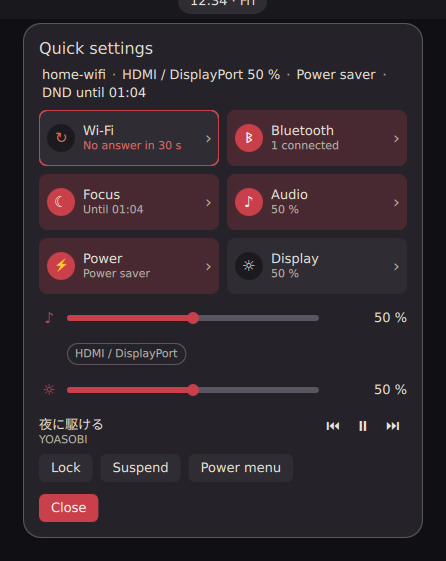
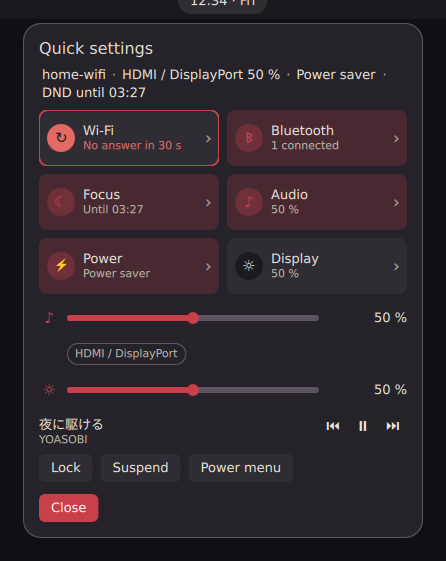
feat(quick): tonal on-state and one tile size contract (I51, I52)
An on tile keeps its accent container but its badge is tonal (accent at low alpha) with an accent glyph; the solid badge is kept for the failed state. QuickTile declares the contract: implicit size 160 x 56 and the props glyph, label and subtitle (renamed from title and value). The tile-state shots cover three, one and no tiles on.

diff --git a/frontend/components/quick/QuickTile.qml b/frontend/components/quick/QuickTile.qml
@@ -2,18 +2,23 @@ import QtQuick
 import "../../core"
 import ".."
 
-// A quick-settings tile (W13, docs/ux/quick-settings.md): 160 x 56 px. The main zone toggles (or opens the page, when the
-// tile has no switch); the arrow zone opens the drill-down page in the same card. The subtitle is the value in effect.
-// States: off, on, connecting (glyph swap, "Connecting…"), failed (the reason in red; Enter or a click retries),
-// unavailable (dim, the reason), forced (inert, who sets the value). Keys: Enter and Space toggle or open, Right opens
-// the page; QuickPanel's grid moves the focus with the arrows.
+// A quick-settings tile (W13, docs/ux/quick-settings.md; the W15 size contract, CONTRACT-CHANGE row 76): the one tile of the
+// card, core or a mod's `quick.tiles` contribution. Its implicit size is 160 x 56 px, so a host lays it out at that size,
+// and its props are `glyph`, `label` and `subtitle` (the value in effect). The main zone toggles (or opens the page, when
+// the tile has no switch); the arrow zone opens the drill-down page in the same card.
+// States: off; on (a tonal container with an accent glyph); connecting (glyph swap, "Connecting…"); failed (the reason in
+// red and a solid badge, the one state that asks for attention; Enter or a click retries); unavailable (dim, the reason);
+// forced (inert, who sets the value). Keys: Enter and Space toggle or open, Right opens the page; QuickPanel's grid moves
+// the focus with the arrows.
 Item {
     id: tile
-    width: 160
-    height: 56
+    implicitWidth: 160
+    implicitHeight: 56
+    width: implicitWidth
+    height: implicitHeight
     property string glyph: ""
-    property string title: ""
-    property string value: ""        // the value in effect, as text
+    property string label: ""
+    property string subtitle: ""     // the value in effect, as text; a reason, forced-by, failure or "Connecting…" shows over it
     property bool on: false
     property bool toggles: true
     property string reason: ""       // unavailable: why, short ("" when available)
@@ -27,11 +32,11 @@ Item {
     readonly property bool connecting: req !== null && req.pending
     readonly property bool failed: req !== null && req.failure !== ""
     readonly property bool lit: on && reason === "" && !failed
-    readonly property string subtitle: reason !== "" ? reason
+    readonly property string shownSubtitle: reason !== "" ? reason
         : forcedBy !== "" ? I18n.tr("island.quick.forced").replace("{by}", forcedBy)
         : failed ? req.failure
         : connecting ? pendingText
-        : value
+        : subtitle
 
     function activate() {
         if (connecting) return
@@ -52,8 +57,8 @@ Item {
         }
     }
     Accessible.role: Accessible.Button
-    Accessible.name: tile.title
-    Accessible.description: tile.subtitle
+    Accessible.name: tile.label
+    Accessible.description: tile.shownSubtitle
     Accessible.checkable: toggles && !inert
     Accessible.checked: on
 
@@ -73,10 +78,11 @@ Item {
         width: 28
         height: 28
         radius: 14
-        color: tile.lit ? Theme.accent : Theme.surface
+        // Tonal when on (accent at low alpha, as the container), solid only for the failed state (I51).
+        color: tile.failed ? Theme.error : (tile.lit ? Qt.alpha(Theme.accent, 0.3) : Theme.surface)
         Text {
             anchors.centerIn: parent
-            color: tile.lit ? Theme.fgOnAccent : (tile.failed ? Theme.error : Theme.fg)
+            color: tile.failed ? Theme.surface : (tile.lit ? Theme.accent : Theme.fg)
             font.pixelSize: Theme.fs + 2
             font.family: Theme.fam(text, Theme.families)
             text: tile.failed ? "↻" : (tile.connecting ? "…" : tile.glyph)
@@ -92,7 +98,7 @@ Item {
             color: Theme.fg
             font.pixelSize: Theme.fs
             font.family: Theme.fam(text, Theme.families)
-            text: tile.title
+            text: tile.label
         }
         Text {
             width: parent.width
@@ -102,7 +108,7 @@ Item {
             color: tile.failed ? Theme.error : Theme.dim
             font.pixelSize: Theme.fsCaption
             font.family: Theme.fam(text, Theme.families)
-            text: tile.subtitle
+            text: tile.shownSubtitle
         }
     }
     // The arrow zone: the drill-down. Its own hit area, so a click here never toggles.

diff --git a/frontend/components/QuickPanel.qml b/frontend/components/QuickPanel.qml
@@ -198,6 +198,8 @@ Item {
     }
 
     // Pages: one page at a time, slid in from the right; the tiles slide out to the left.
+    // The page the card opens on: the power and bluetooth faces' expanded views (Stage, I44). "" opens on the tiles.
+    property string startPage: ""
     property string page: ""           // the page asked for; "" shows the tiles
     property string shownPage: ""      // the page the pane holds; kept while it slides out
     property var returnTo: null        // the control that opened the page: focus goes back there
@@ -228,6 +230,12 @@ Item {
         easing.type: Easing.BezierSpline
         easing.bezierCurve: Theme.enterCurve
         onFinished: if (quick.page === "") quick.shownPage = ""
+    }
+    Component.onCompleted: if (startPage !== "") {
+        page = startPage
+        shownPage = startPage
+        slideAnim.stop()    // it opens on the page: no slide in from the tiles
+        slide = 1
     }
     // Esc and Left go back from a page (a slider takes Left for itself). On the tiles they pass on, to close the card.
     Keys.onPressed: event => {
@@ -285,8 +293,8 @@ Item {
                 id: tWifi
                 width: (grid.width - grid.spacing) / 2
                 glyph: "≋"
-                title: I18n.tr("island.quick.tile.wifi")
-                value: quick.wifiValue
+                label: I18n.tr("island.quick.tile.wifi")
+                subtitle: quick.wifiValue
                 reason: quick.netOk ? "" : I18n.tr("island.quick.tile.no_network")
                 on: quick.wifiOn
                 req: rqWifi
@@ -297,8 +305,8 @@ Item {
                 id: tBt
                 width: (grid.width - grid.spacing) / 2
                 glyph: "ᛒ"
-                title: I18n.tr("island.quick.tile.bluetooth")
-                value: quick.btValue
+                label: I18n.tr("island.quick.tile.bluetooth")
+                subtitle: quick.btValue
                 reason: quick.btOk ? "" : I18n.tr("island.quick.tile.no_bluetooth")
                 on: quick.btDoc.powered === true
                 req: rqBt
@@ -309,8 +317,8 @@ Item {
                 id: tFocus
                 width: (grid.width - grid.spacing) / 2
                 glyph: "☾"
-                title: I18n.tr("island.quick.tile.focus")
-                value: quick.focusValue
+                label: I18n.tr("island.quick.tile.focus")
+                subtitle: quick.focusValue
                 reason: quick.notifyOk ? "" : I18n.tr("island.quick.tile.no_notify")
                 on: quick.dnd
                 req: rqDnd
@@ -321,8 +329,8 @@ Item {
                 id: tAudio
                 width: (grid.width - grid.spacing) / 2
                 glyph: "♪"
-                title: I18n.tr("island.quick.tile.audio")
-                value: quick.audioValue
+                label: I18n.tr("island.quick.tile.audio")
+                subtitle: quick.audioValue
                 reason: quick.audioOk ? "" : I18n.tr("island.quick.tile.no_audio")
                 on: !quick.muted
                 req: rqMute
@@ -333,8 +341,8 @@ Item {
                 id: tPower
                 width: (grid.width - grid.spacing) / 2
                 glyph: "⚡"
-                title: I18n.tr("island.quick.tile.power")
-                value: quick.powerValue
+                label: I18n.tr("island.quick.tile.power")
+                subtitle: quick.powerValue
                 reason: quick.powerOk ? "" : I18n.tr("island.quick.tile.no_power")
                 on: quick.powerDoc.profile === "power-saver"
                 toggles: quick.saverOffered
@@ -346,8 +354,8 @@ Item {
                 id: tDisplay
                 width: (grid.width - grid.spacing) / 2
                 glyph: "☼"
-                title: I18n.tr("island.quick.tile.display")
-                value: quick.brOk ? quick.displayValue : ""
+                label: I18n.tr("island.quick.tile.display")
+                subtitle: quick.brOk ? quick.displayValue : ""
                 reason: quick.brOk ? "" : I18n.tr("island.quick.tile.no_backlight")
                 toggles: false
                 onPageRequested: quick.openPage("display", tDisplay)
